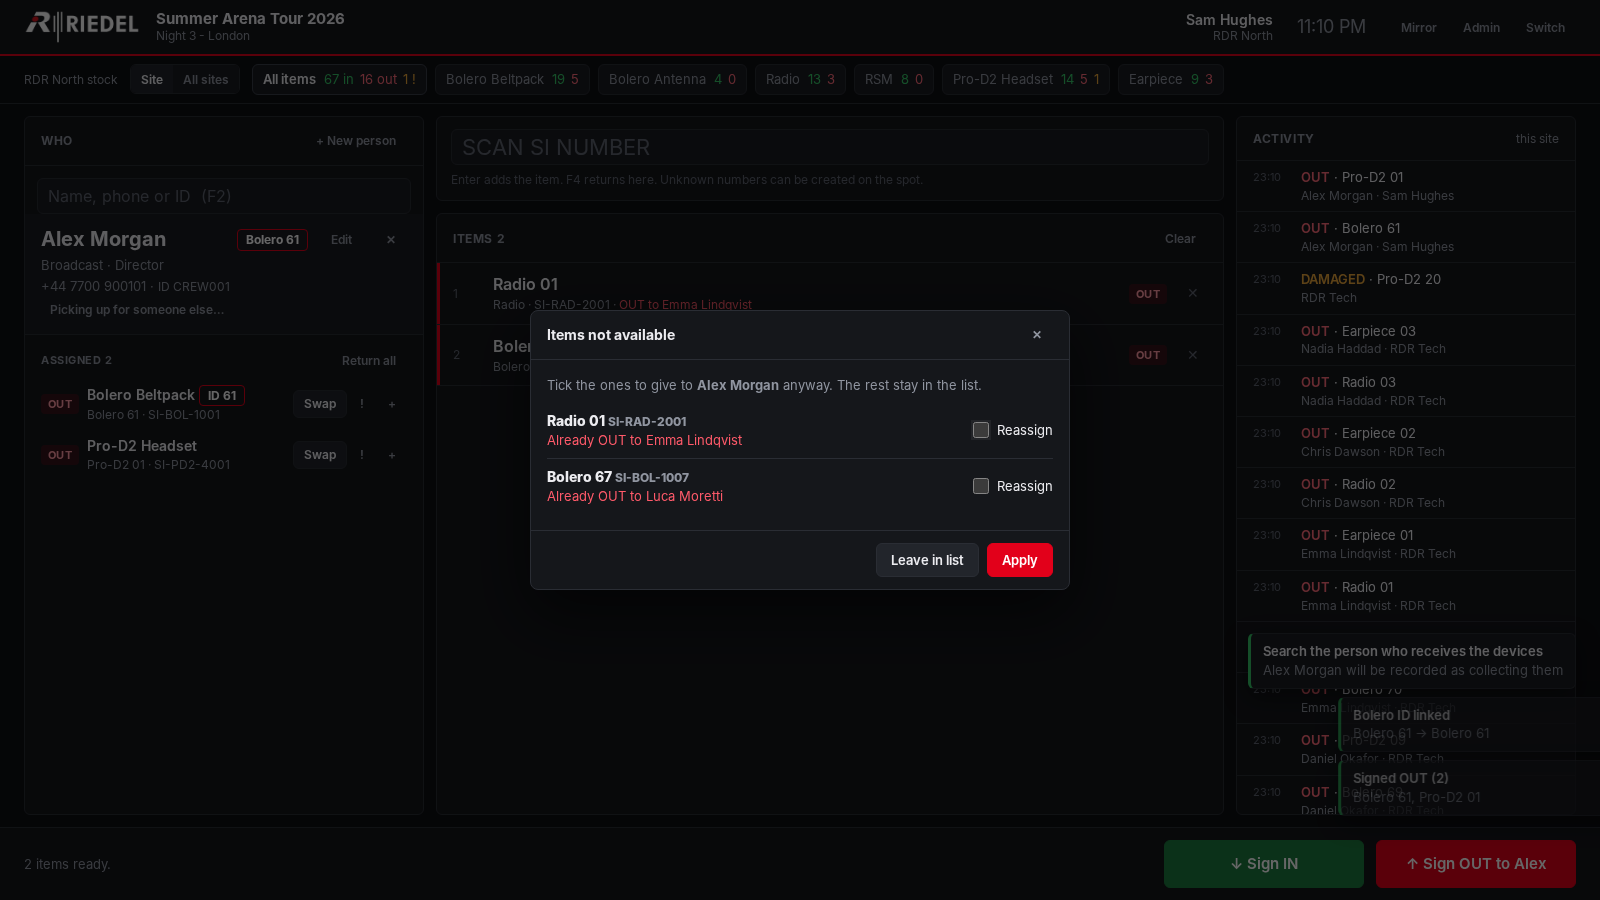
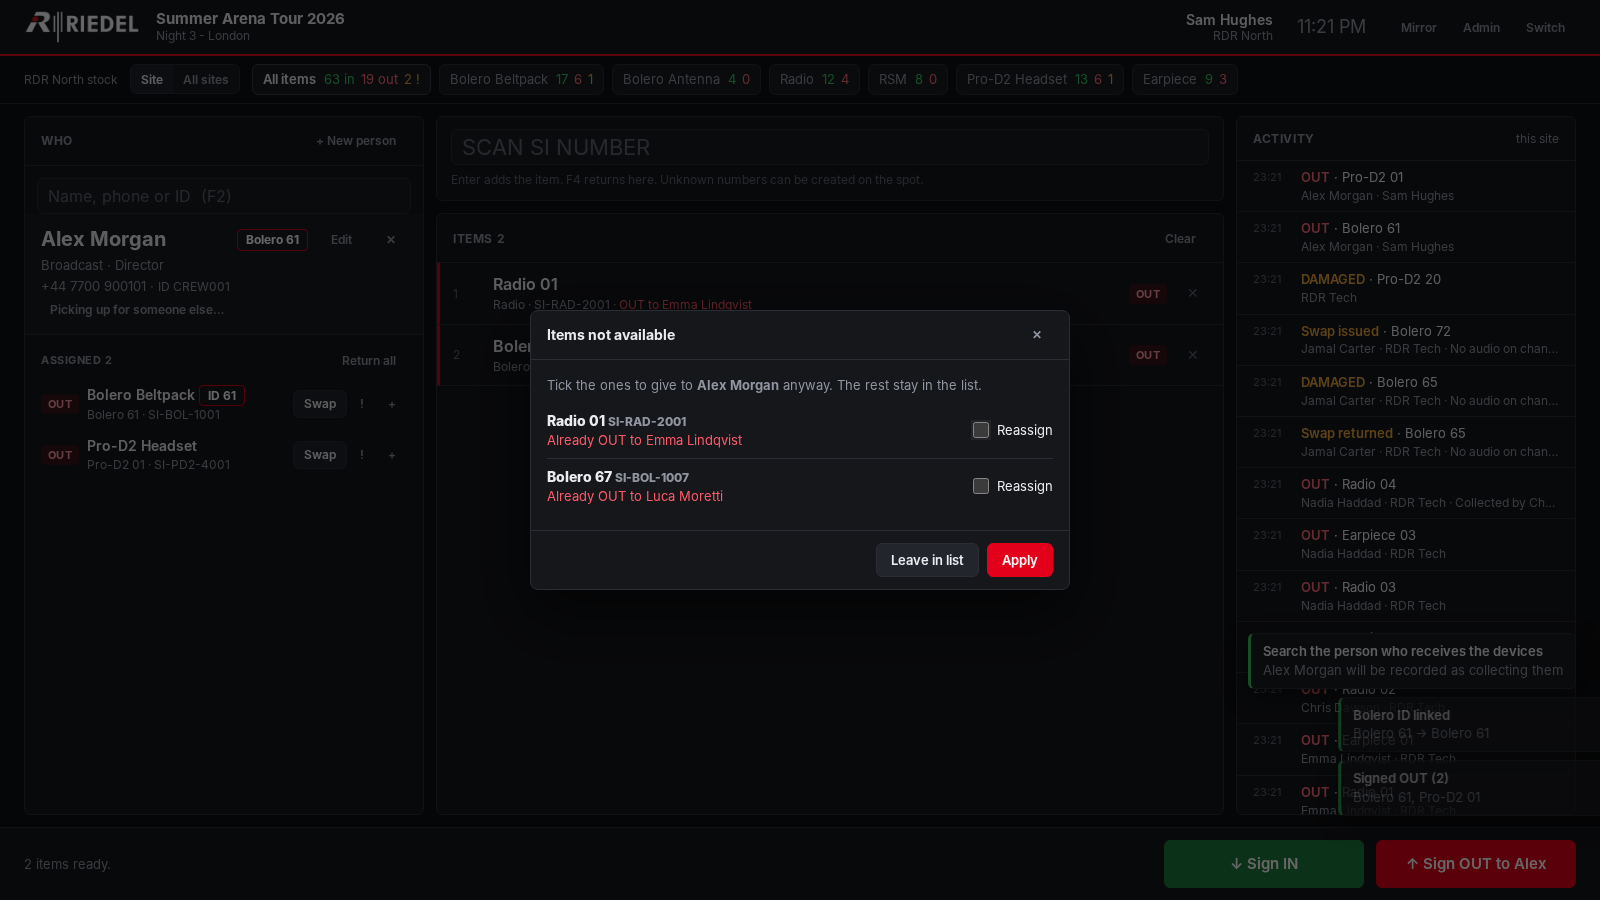
Demo data for the Bolero ID rules; v0.4.1
Planned IDs for eight people, radio-only people, two spare packs that come
in pre-configured (69, 70), a person who adopts a spare's ID, a swap that
trades IDs, and a radio collected on someone's behalf.

diff --git a/app/services/demo.py b/app/services/demo.py
@@ -5,7 +5,7 @@ import random
 import sqlite3
 
 from ..db import now_iso
-from .inventory import create_person, log, quick_create_device, set_assignment, sign_out
+from .inventory import create_person, log, quick_create_device, set_assignment, sign_out, swap
 
 PEOPLE = [
     ("Alex Morgan", "Broadcast", "Director", "+44 7700 900101"),
@@ -36,18 +36,20 @@ def load_demo(db: sqlite3.Connection) -> int:
     people = []
     for i, (name, dept, role, phone) in enumerate(PEOPLE, start=1):
         existing = db.execute("SELECT * FROM people WHERE name = ?", (name,)).fetchone()
-        people.append(existing or create_person(db, name, dept, role, phone, external_id=f"CREW{i:03d}", bolero_id=(str(60 + i) if i <= 10 else "")))
+        # the first eight are planned with a Bolero ID; the rest are radio-only or have nothing yet
+        people.append(existing or create_person(db, name, dept, role, phone, external_id=f"CREW{i:03d}", bolero_id=(str(60 + i) if i <= 8 else "")))
 
     tech = {"tech_id": 1, "site_id": db.execute("SELECT MIN(id) FROM sites").fetchone()[0]}
     devices = []
 
-    def mk(si, tname, label, action="imported"):
+    def mk(si, tname, label, action="imported", linked_id=""):
         if db.execute("SELECT 1 FROM devices WHERE si = ?", (si,)).fetchone():
             return
-        devices.append(quick_create_device(db, si, types[tname], label, tech, action=action))
+        devices.append(quick_create_device(db, si, types[tname], label, tech, action=action, linked_id=linked_id))
 
     for n in range(1, 25):
-        mk(f"SI-BOL-{1000 + n}", "Bolero Beltpack", f"Bolero {60 + n}")
+        # two spare packs come in from the device sheet already configured with an ID (69 and 70)
+        mk(f"SI-BOL-{1000 + n}", "Bolero Beltpack", f"Bolero {60 + n}", linked_id=("69" if n == 11 else "70" if n == 12 else ""))
     for n in range(1, 17):
         mk(f"SI-RAD-{2000 + n}", "Radio", f"Radio {n:02d}")
     for n in range(1, 9):
@@ -68,10 +70,20 @@ def load_demo(db: sqlite3.Connection) -> int:
 
     # one specific reservation to show the feature
     set_assignment(db, by_type["Bolero Beltpack"][0]["id"], people[0]["id"], tech, note="Director's own pack")
-    for p, bol, hs in zip(people[6:10], by_type["Bolero Beltpack"][6:10], by_type["Pro-D2 Headset"][6:10]):
+
+    packs, headsets = by_type["Bolero Beltpack"], by_type["Pro-D2 Headset"]
+    # people 5-8 (IDs 65-68) have collected pack + headset: the packs are now linked to their IDs
+    for p, bol, hs in zip(people[4:8], packs[4:8], headsets[4:8]):
         sign_out(db, [bol["id"], hs["id"]], p["id"], tech)
+    # person 9 had no planned ID and was handed a spare configured as 69: they adopt that ID
+    sign_out(db, [packs[10]["id"], headsets[8]["id"]], people[8]["id"], tech)
+    # radio-only people
     for p, rad, ear in zip(people[9:12], by_type["Radio"][:3], by_type["Earpiece"][:3]):
         sign_out(db, [rad["id"], ear["id"]], p["id"], tech)
+    # person 11 also collected a radio on behalf of person 12
+    sign_out(db, [by_type["Radio"][3]["id"]], people[11]["id"], tech, collector_id=people[10]["id"])
+    # person 5's pack went faulty and was swapped for the spare configured as 70: IDs traded places
+    swap(db, packs[4]["id"], packs[11]["id"], tech, reason="Faulty", note="No audio on channel B", old_status="damaged")
     dmg = by_type["Pro-D2 Headset"][-1]
     db.execute("UPDATE devices SET status = 'damaged' WHERE id = ?", (dmg["id"],))
     log(db, "damaged", dmg["id"], None, tech, reason="Broken boom arm")

diff --git a/tests/test_z_phase2.py b/tests/test_z_phase2.py
@@ -270,3 +270,23 @@ def test_sign_out_on_behalf_and_chip_data(client):
     hit = client.get("/api/people/search?q=Recipient").json()["results"][0]
     assert hit["radio_label"] == "Radio 09" and hit["held_bolero"] is None
     assert client.post("/api/signout", json={"person_id": receiver["id"], "device_ids": [], "collector_id": 999999}).status_code == 400
+
+
+def test_demo_data_shows_bolero_rules(client):
+    client.post("/admin/login", data={"password": "test1234"})
+    client.post("/admin/settings/reset", data={"confirm": "RESET", "keep_password": "1"})
+    client.post("/admin/settings/demo")
+    client.post("/start", data={"tech_id": 1, "site_id": 1})
+    client.post("/admin/login", data={"password": "test1234"})
+    emma = client.get("/api/people/search?q=Emma").json()["results"][0]        # 10th person, no planned ID, radio-only
+    assert emma["bolero_id"] == "" and emma["radio_label"].startswith("Radio")
+    daniel = client.get("/api/people/search?q=Daniel").json()["results"][0]    # 9th person adopted the spare's ID 69
+    assert daniel["bolero_id"] == "69"
+    jamal = client.get("/api/people/search?q=Jamal").json()["results"][0]      # 5th person: swapped pack, keeps ID 65
+    held = client.get(f"/api/people/{jamal['id']}").json()["holdings"]
+    pack = next(h for h in held if "Bolero" in h["type_name"])
+    assert pack["linked_id"] == "65" and pack["si"] == "SI-BOL-1012"
+    damaged = client.get("/api/devices/lookup?si=SI-BOL-1005").json()["device"]
+    assert damaged["status"] == "damaged" and damaged["linked_id"] == "70"     # the damaged pack took the spare's old ID
+    recent = client.get("/api/recent?limit=60").json()["transactions"]
+    assert any("Collected by" in (t["note"] or "") for t in recent)

diff --git a/app/__init__.py b/app/__init__.py
@@ -1,2 +1,2 @@
 """RDR - Radio Distribution Room sign in / sign out application."""
-__version__ = "0.4.0"
+__version__ = "0.4.1"
